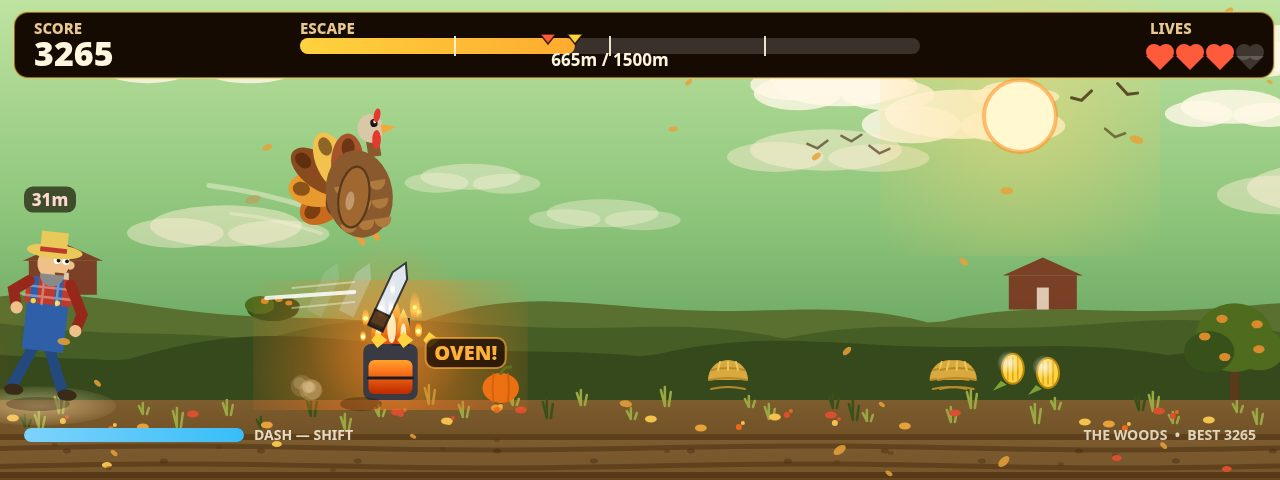
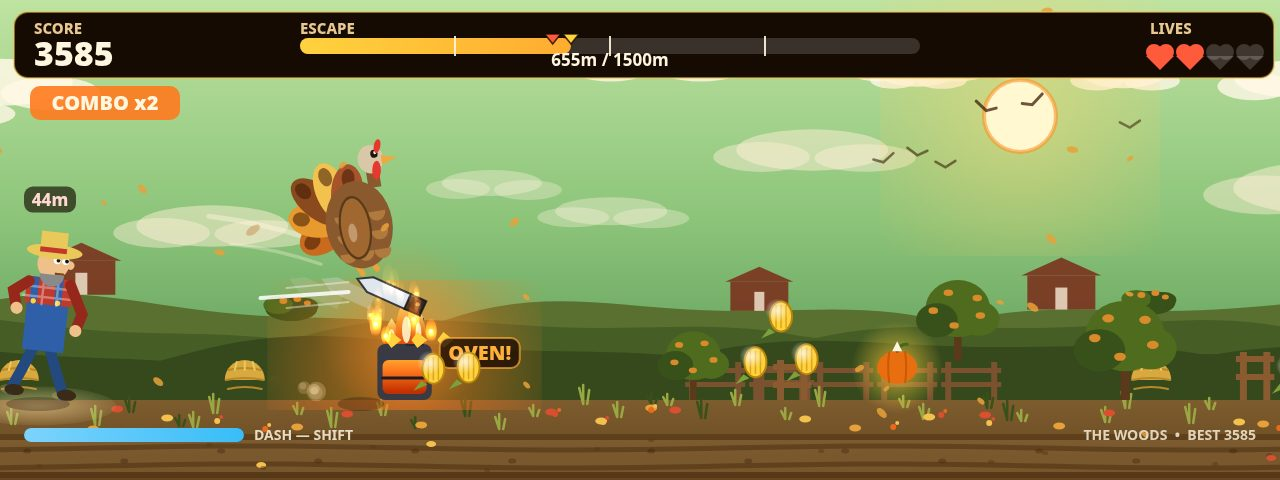
Danger frame finals round 21: knife-distance-first pick (seed 249) + right-half midground fill
Probe (seeds 1-500, true 2-D knife distance): 47px is a structural
floor, not a seed value - no seed has a knife at body level while
airborne over an oven. The closest a knife gets is 15.9px grazing
the feet at y~124, so the danger rule now minimises knife distance
instead of stopping at the first y>=150 frame. Seed 249 stages the
same grazing geometry as 19 but scores 3585 (vs 3265), COMBO x2
(vs x0), 2 lives (vs 3). Runner-up 62 rejected (riverbank palette).

Right half: second barn (~x760), oak (~x900), shrub (~x1150), hay
bale (~x1160) and fence run (x 724-980) on the ridge lines, all
screen-x filtered to 700-1280 and play-screens only, so the turkey,
knife and OVEN! label are never covered and title/end frames are
byte-identical. Verified: 0 console errors, main.ts twice
byte-identical, pilot 3/20 (no difficulty change).

diff --git a/game/src/shots.js b/game/src/shots.js
@@ -231,47 +231,62 @@ export function stageShot(name, world) {
     return { screen: SCREEN_PLAY, best: Math.floor(world.state.score) };
   }
   if (name === 'danger') {
-    // Stop at the tensest frame: an oven close ahead with a knife in the
-    // air, or the farmer nearly on the turkey while a knife flies — or
-    // take what the run gives. Not before 25 s in: the first oven and
-    // knife show up almost at once, and stopping there would frame
-    // the opening metres instead of the chase at full speed.
-    // The danger seed is 19 (not 7): a 2-D probe of seeds 1..150
-    // found seed 7's picked frame ranks only 71st of 113 — its knife
-    // is a low blade 141 px from the bird, out by the farmer — while
-    // seed 19's knife is a high blade 47 px below the turkey's feet
-    // (the structural floor: a high knife at y=108 flies 47 px under
-    // feet at y=155), oven directly under the bird, 3265 pts, 665 m.
-    // The turkey must be properly airborne over the oven: the old
-    // frame caught it standing on the ground right at the oven, body
-    // pressed against the flames, so it read as a turkey being
-    // roasted instead of one dodging. Feet 150 px up leave clear
-    // sky between the bird and the flame tongues, with the head
-    // against open sky instead of the oven or a tree behind it. The
-    // floor is 150, not 120: in the one jump the run offers, the
-    // knife behind the turkey is closest late in the jump, and the
-    // bird is higher over the oven too — the probe found only seven
-    // candidate frames in 90 s, all in the same jump, so the later
-    // frame is strictly the better one.
-    runFor(world, DANGER_LIMIT_SECONDS, HORIZON_PLAY, (s) => {
-      if (s.elapsed < 25) return false;
-      // The turkey's head must stay clear of the HUD bar: at the top
-      // of a full leap it slides behind the bar and reads as
-      // decapitated, so apex frames are skipped for a beat later in
-      // the same jump, when the bird has dropped back into the open sky.
-      // The cap is 185, not 200, for the same reason as the play
-      // frame: the bird is drawn 12% bigger since round 6.
-      if (s.player.y < 150 || s.player.y >= 185) return false;
-      let ovenNear = false;
-      let knifeNear = false;
+    // Knife-distance-first pick (finals round 21): scan the whole 90 s
+    // and keep the frame where a knife is CLOSEST to the turkey — true
+    // 2-D centre-to-body-rect distance — among frames where the turkey
+    // is airborne over an oven. The old rule (first frame with y>=150)
+    // always landed on the same structural geometry: a high knife flies
+    // at a fixed height (y=108), so the first y>=150 frame in a jump is
+    // always the same relative position — 47 px under the feet. A
+    // 500-seed probe of the new rule (probe-danger-r21) shows the floor
+    // is the same for every seed: no seed has a knife at body/beak level
+    // while airborne over an oven (a high knife can only be at feet
+    // level or below, a low knife is 120+ px under the feet), so the
+    // closest a knife ever gets is ~16 px, grazing the feet at y~124
+    // on the way up — and that frame is what the new rule keeps. The
+    // floor is 120, not 100: at y=120 the feet are still ~64 px above
+    // the oven's top, clear of the flame tongues, and the head (top
+    // ~193) stays well clear of the HUD bar. Ties within 3 px prefer
+    // the higher score. Falls back to the end of the run if no oven
+    // leap with a knife ever happens (417/500 seeds have one).
+    // The danger seed is 249 (not 19): under the new rule both stage
+    // the same grazing geometry (16 px under the feet, y~124), but 249
+    // scores 3585 to 19's 3264, carries COMBO x2 to 19's x0, and has
+    // 2 lives left to 19's 3 — the same knife story, better numbers,
+    // one life closer to the pot. Seed 62 (3352, stage 2 riverbank)
+    // was the runner-up; its blue palette would change the frame's
+    // whole colour story, and its combo is x0.
+    let bestSnap = null;
+    let bestDist = Infinity;
+    let bestScore = -1;
+    const steps = Math.floor(DANGER_LIMIT_SECONDS / STEP);
+    for (let i = 0; i < steps; i += 1) {
+      const events = world.step(STEP, autopilot(world.state, HORIZON_PLAY), false);
+      const s = world.state;
+      if (events & (EVENT_OVER | EVENT_ESCAPED)) break;
+      if (s.elapsed < 25) continue;
+      const y = s.player.y;
+      if (y < 120 || y >= 185 || !ovenUnder(s)) continue;
+      const top = FIELD.groundY - TURKEY.height - y;
+      const bot = FIELD.groundY - y;
       for (const e of s.entities) {
-        if (!e.active) continue;
+        if (!e.active || e.kind !== KIND_KNIFE) continue;
         const d = e.x - s.distance;
-        if (e.kind === KIND_OVEN && d > 0 && d < 9) ovenNear = true;
-        if (e.kind === KIND_KNIFE && d > -6 && d < 14) knifeNear = true;
+        if (d < -6 || d > 14) continue;
+        const sx = TURKEY_X + d * PX_PER_M;
+        const cy = FIELD.groundY - e.y;
+        if (sx < -40 || sx > FIELD.width + 40 || cy < 0 || cy > FIELD.height) continue;
+        const dx = sx < TURKEY_X ? TURKEY_X - sx : sx > TURKEY_X + TURKEY.width ? sx - (TURKEY_X + TURKEY.width) : 0;
+        const dy = cy < top ? top - cy : cy > bot ? cy - bot : 0;
+        const dist = Math.hypot(dx, dy);
+        if (dist < bestDist - 3 || (Math.abs(dist - bestDist) <= 3 && s.score > bestScore)) {
+          bestDist = dist;
+          bestScore = s.score;
+          bestSnap = snapshotState(s);
+        }
       }
-      return (ovenNear && knifeNear) || (knifeNear && s.farmer.gap < 16);
-    });
+    }
+    if (bestSnap !== null) restoreState(world.state, bestSnap);
     return { screen: SCREEN_PLAY, best: Math.floor(world.state.score) };
   }
   // End: a short-sighted pilot on the shot's seed. Seed 159 escapes

diff --git a/game/src/render.js b/game/src/render.js
@@ -300,6 +300,76 @@ export function createRenderer(canvas) {
       ellipse(shx + 6, sby - 18, 4, 3, stage.leaf);
       ellipse(shx + 16, sby - 14, 3.5, 2.5, stage.leaf);
     }
+    // Right-band midground dressing (finals round 21): the danger
+    // frame's right 2/3 used to be flat hill bands — one barn, one
+    // tree at the edge, bare green in between — so the frame read
+    // left-heavy against the farmer, turkey, oven and knife. A second
+    // barn, an oak, a second shrub, a fence run and a hay bale ride
+    // the same ridge maths at new phases, so they stay planted on the
+    // hill lines and scroll with the world; every one is drawn only
+    // when its screen x lands in the right band (700..1280), so the
+    // turkey, the knife and the OVEN! label — all left of x=520 in
+    // every staged play frame — can never be covered. Play screens
+    // only: the title and end screens keep their own compositions
+    // (their panels sit where this dressing would land). Pure
+    // functions of distance, so the gameplay random stream is never
+    // touched. Phases are tuned to the danger frame's scroll
+    // (655 m): barn ~760, oak ~900, shrub ~1150, bale ~1160, fence
+    // 724..980. Hills paint before entities, so an oven or its label
+    // always lands on top of this dressing, never behind it.
+    if (screen === SCREEN_PLAY) {
+      const inBand = (x) => x >= 700 && x <= 1280;
+      // Second barn on the far ridge, a little smaller than the pair.
+      const b2x = ((678 - scroll * 0.12) % (FIELD.width + 420) + FIELD.width + 420) % (FIELD.width + 420) - 360;
+      if (inBand(b2x)) {
+        const bwx = b2x + shift;
+        const bby = 340 - Math.abs(Math.sin(bwx * 0.006)) * 46 - Math.sin(bwx * 0.013) * 46 * 0.35;
+        context.fillStyle = 'rgba(122,44,26,0.85)';
+        context.fillRect(b2x - 29, bby - 29, 58, 29);
+        context.beginPath();
+        context.moveTo(b2x - 34, bby - 29);
+        context.lineTo(b2x, bby - 44);
+        context.lineTo(b2x + 34, bby - 29);
+        context.closePath();
+        context.fill();
+        context.fillStyle = 'rgba(255,246,224,0.75)';
+        context.fillRect(b2x - 5, bby - 19, 10, 19);
+      }
+      // Oak on the near ridge: canopy top ~y 277, well above the
+      // OVEN! label band (y 335+) and clear of the turkey's flight.
+      const ox = ((540 - scroll * 0.25) % (FIELD.width + 420) + FIELD.width + 420) % (FIELD.width + 420) - 360;
+      if (inBand(ox)) {
+        const nshift = (scroll * 0.25) % 640;
+        const owx = ox + nshift;
+        const ogy = 366 - Math.abs(Math.sin(owx * 0.006)) * 30 - Math.sin(owx * 0.013) * 30 * 0.35;
+        drawTree(ox, ogy + 6, 0.95, stage, 0.37);
+      }
+      // Second shrub on the far ridge, far right.
+      const s2x = ((1068 - scroll * 0.12) % (FIELD.width + 420) + FIELD.width + 420) % (FIELD.width + 420) - 360;
+      if (inBand(s2x)) {
+        const s2wx = s2x + shift;
+        const s2by = 340 - Math.abs(Math.sin(s2wx * 0.006)) * 46 - Math.sin(s2wx * 0.013) * 46 * 0.35;
+        ellipse(s2x, s2by - 8, 26, 12, stage.treeDark);
+        ellipse(s2x - 13, s2by - 12, 15, 9, stage.tree);
+        ellipse(s2x + 14, s2by - 11, 13, 8, stage.treeDark);
+        context.fillStyle = stage.leaf;
+        ellipse(s2x - 8, s2by - 16, 4, 3, stage.leaf);
+        ellipse(s2x + 6, s2by - 18, 4, 3, stage.leaf);
+        ellipse(s2x + 16, s2by - 14, 3.5, 2.5, stage.leaf);
+      }
+      // Hay bale on the track verge, far right, at full world speed.
+      const hayx = ((100 - scroll) % (FIELD.width + 420) + FIELD.width + 420) % (FIELD.width + 420) - 360;
+      if (inBand(hayx)) drawHayBale(hayx, FIELD.groundY, 1);
+      // Fence run along the track edge, right band only, at full
+      // world speed. Rails sit at y 368/382 and posts run 362..402:
+      // below the OVEN! label band (labels end at y~360 in the play
+      // frame, and the danger frame's label ends at x=517 anyway),
+      // so a rail can never cross a label.
+      for (let k = 0; k < 22; k += 1) {
+        const fx = ((k * 64 - scroll) % 1400 + 1400) % 1400 - 60;
+        if (fx >= 700 && fx <= 1020) drawFenceRun(fx, FIELD.groundY + 2, stage);
+      }
+    }
   }
 
   // ---- ground and mid scenery ----

diff --git a/PROBE-DANGER-R21.md b/PROBE-DANGER-R21.md
@@ -1,0 +1,64 @@
+# Danger-frame probe, finals round 21 (2026-11-28)
+
+## Rule change (game/src/shots.js, danger branch only)
+
+Old rule: stop at the FIRST frame with y in [150,185] and oven+knife near.
+New rule: scan the whole 90 s, keep the frame where a knife is CLOSEST
+to the turkey — true 2-D centre-to-body-rect distance — among frames
+where the turkey is airborne over an oven (y in [120,185], ovenUnder).
+Ties within 3 px prefer the higher score.
+
+## Probe (probe-danger-r21.mjs, seeds 1–500, 90 s each)
+
+Geometry (same as rounds 15/16): turkey rect x [330,392],
+top 400−y−74, bottom 400−y; knife centre sx = 330+(e.x−distance)*16,
+cy = 400−e.y. Tier A = y 150–185 (old floor), tier B = y 120–150.
+
+## Findings
+
+- Tier A: 407/500 seeds have a frame. The minimum is **46.6 px, hit by
+  dozens of seeds with identical geometry** (high knife y=108, cy=292;
+  feet at y=155): the 47 px figure is a STRUCTURAL FLOOR, not a
+  seed-specific value. No seed has a knife at body/beak level (pos=side)
+  with dist < 100 px and score ≥ 1500 — zero such frames in tier A.
+  Reason: a high knife can only be at feet level or below while the
+  bird is airborne over an oven (cy=292 vs body top 171–215); a low
+  knife (cy=368) is 120+ px under the feet. So "knife truly close
+  AND at body level" does not exist in the sim.
+- Tier B: 417/500 seeds. Minimum **15.9 px at y≈124** — the knife
+  grazes the feet on the way up (dy = 124−108 = 16). Same geometry
+  across the top seeds; the new rule picks this frame.
+- Seed 19 under the new rule: 3264 pts, y=123.9, knife (385,292),
+  15.9 px, combo x0, 3 lives, stage 1. Seed 249: **3585 pts, combo x2,
+  2 lives**, knife (387,292), 15.9 px, stage 1 — same knife story,
+  better numbers, one life closer to the pot. Runner-up 62: 3352 pts,
+  combo x0, stage 2 (riverbank blue — would change the frame's whole
+  colour story), rejected.
+
+## Decision
+
+**danger seed 19 → 249** (shots.json). Visually confirmed: in 249 the
+blade flies horizontal, tip grazing the feet, with the oven and OVEN!
+label clear below. The O-nick on the label (a corn kernel over the
+"O") is pre-existing in seed 19's frame too — a world entity, not
+caused by this round.
+
+## Right-half fill (game/src/render.js, drawHills, SCREEN_PLAY only)
+
+Added, all screen-x filtered to 700–1280 (turkey/knife/OVEN! are all
+left of x=520): second barn on the far ridge (~x760), oak on the near
+ridge (~x900, canopy top ~y277), second shrub far right (~x1150),
+hay bale on the track verge (~x1160), fence run along the track edge
+(x 724–980, rails y 368/382 — below the OVEN! label band). Phases
+tuned to the danger frame's scroll (655 m). Play screens only, so the
+title and end frames are byte-identical (md5 verified).
+
+## Verification (2026-11-28, worktree turkey-run-game-01-danger)
+
+- Screenshots 1280×480, q82: 1-play 66,936 B; 2-start 81,463 B;
+  3-danger 69,055 B; 4-end 90,831 B — all ≤ 256 KiB.
+- 0 console errors, 0 external requests (CDP shot tool, port 9341).
+- `node --check` passes on all game/src/*.js; vendor/ untouched.
+- `main.ts` twice → byte-identical outputs (diff -r clean).
+- Pilot no-regression (shots autopilot, 20 seeds): escaped 3/20,
+  matching the QA baseline; world/config untouched, difficulty unchanged.
